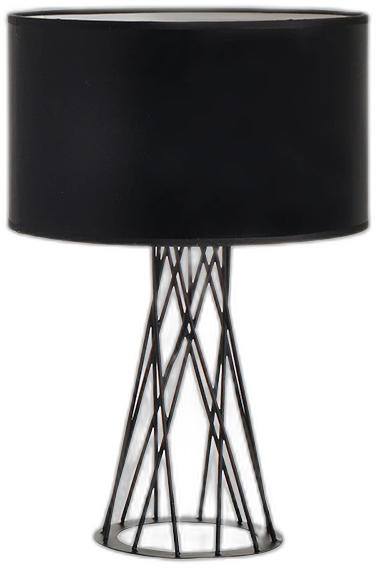
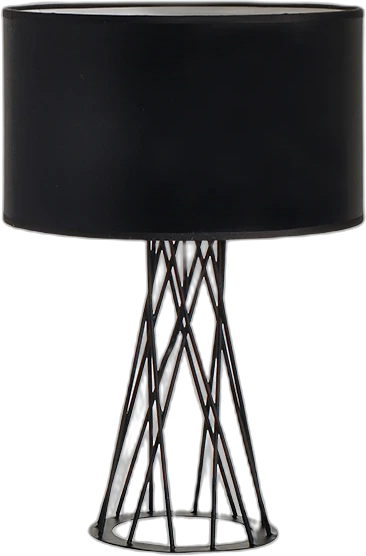
Integrate shelf products with book depth

diff --git a/src/catalogue-bookshelf.css b/src/catalogue-bookshelf.css
@@ -2516,47 +2516,51 @@
 
 .catalogue-shelf__decor {
   position: absolute;
-  z-index: 15;
+  z-index: 14;
   right: 4.8%;
   bottom: calc(var(--shelf-lip-h) + var(--shelf-top-rise) - var(--book-seat-depth) + var(--decor-base-adjust, 0px));
   display: block;
   width: clamp(50px, 6.2vw, 88px);
   height: 78%;
   pointer-events: none;
-  transform: translateZ(2px);
+  perspective: 780px;
+  transform: none;
   transform-origin: center bottom;
+  transform-style: preserve-3d;
   isolation: isolate;
 }
 
 .catalogue-shelf__decor--chempo {
   --decor-base-adjust: -1px;
+  --decor-contact-width: 34%;
   width: clamp(104px, 10vw, 150px);
-  height: 91%;
+  height: 84%;
 }
 
 .catalogue-shelf__decor--ilanga {
   --decor-base-adjust: -1px;
+  --decor-contact-width: 44%;
   width: clamp(108px, 10.5vw, 156px);
-  height: 91%;
+  height: 84%;
 }
 
 .catalogue-shelf__decor--acacia {
+  --decor-contact-width: 42%;
   width: clamp(104px, 10vw, 150px);
-  height: 91%;
+  height: 84%;
 }
 
 .catalogue-shelf__decor::before {
   position: absolute;
-  z-index: 0;
-  right: 8%;
-  bottom: -2px;
-  left: 8%;
-  height: 7px;
-  border-radius: 50%;
+  z-index: 1;
+  inset: 0;
   content: '';
-  background: radial-gradient(ellipse, rgb(15 8 4 / 62%), transparent 72%);
-  filter: blur(2px);
-  transform: scaleX(.88);
+  pointer-events: none;
+  background: linear-gradient(90deg, #2a1710 0%, #73503a 55%, #24120d 100%);
+  -webkit-mask: var(--decor-image) center bottom / contain no-repeat;
+  mask: var(--decor-image) center bottom / contain no-repeat;
+  transform: translate3d(6px, -1px, -4px) rotateY(-5deg);
+  transform-origin: center bottom;
 }
 
 .catalogue-shelf__decor img,
@@ -2570,16 +2574,24 @@
 }
 
 .catalogue-shelf__decor img {
+  z-index: 2;
   object-fit: contain;
   object-position: center bottom;
   filter:
-    drop-shadow(0 3px 2px rgb(16 8 4 / 44%))
+    saturate(.82)
+    sepia(.06)
+    brightness(.88)
+    contrast(1.08)
+    drop-shadow(2px 5px 5px rgb(10 6 4 / 46%))
+    drop-shadow(0 1px 1px rgb(255 255 255 / 16%))
     drop-shadow(0 0 8px var(--shelf-glow));
+  transform: translateZ(0) rotateY(-5deg);
+  transform-origin: center bottom;
   transition: filter .22s ease;
 }
 
 .catalogue-shelf__decor::after {
-  z-index: 2;
+  z-index: 3;
   content: '';
   pointer-events: none;
   background:
@@ -2596,8 +2608,38 @@
   transition: opacity .22s ease, background .22s ease;
 }
 
+.catalogue-shelf__decor-contact {
+  position: absolute;
+  z-index: 0;
+  bottom: -1px;
+  left: 50%;
+  display: block;
+  width: var(--decor-contact-width, 46%);
+  height: 5px;
+  border-radius: 50%;
+  pointer-events: none;
+  background: radial-gradient(ellipse, rgb(18 8 4 / 72%), transparent 74%);
+  filter: blur(1.5px);
+  opacity: .7;
+  transform: translateX(-58%) skewX(-13deg);
+}
+
 .catalogue-shelf[data-power='off'] .catalogue-shelf__decor img {
-  filter: drop-shadow(0 3px 2px rgb(16 8 4 / 44%)) brightness(.86);
+  filter:
+    saturate(.68)
+    sepia(.06)
+    brightness(.72)
+    contrast(1.04)
+    drop-shadow(2px 5px 5px rgb(10 6 4 / 52%))
+    drop-shadow(0 1px 1px rgb(255 255 255 / 10%));
+}
+
+.catalogue-library-room__scene[data-book-view='flat'] .catalogue-shelf__decor::before {
+  display: none;
+}
+
+.catalogue-library-room__scene[data-book-view='flat'] .catalogue-shelf__decor img {
+  transform: none;
 }
 
 .catalogue-volume {

diff --git a/src/components/CatalogueBookshelf.tsx b/src/components/CatalogueBookshelf.tsx
@@ -281,6 +281,7 @@ export function CatalogueBookshelf({catalogues, sourceCatalogues}: CatalogueBook
                 aria-hidden="true"
               >
                 <img src={publicAsset(decoration.src)} alt=""/>
+                <span className="catalogue-shelf__decor-contact" aria-hidden="true"/>
               </span>}
             </div>
             <div className="catalogue-shelf__led" aria-hidden="true"/>
